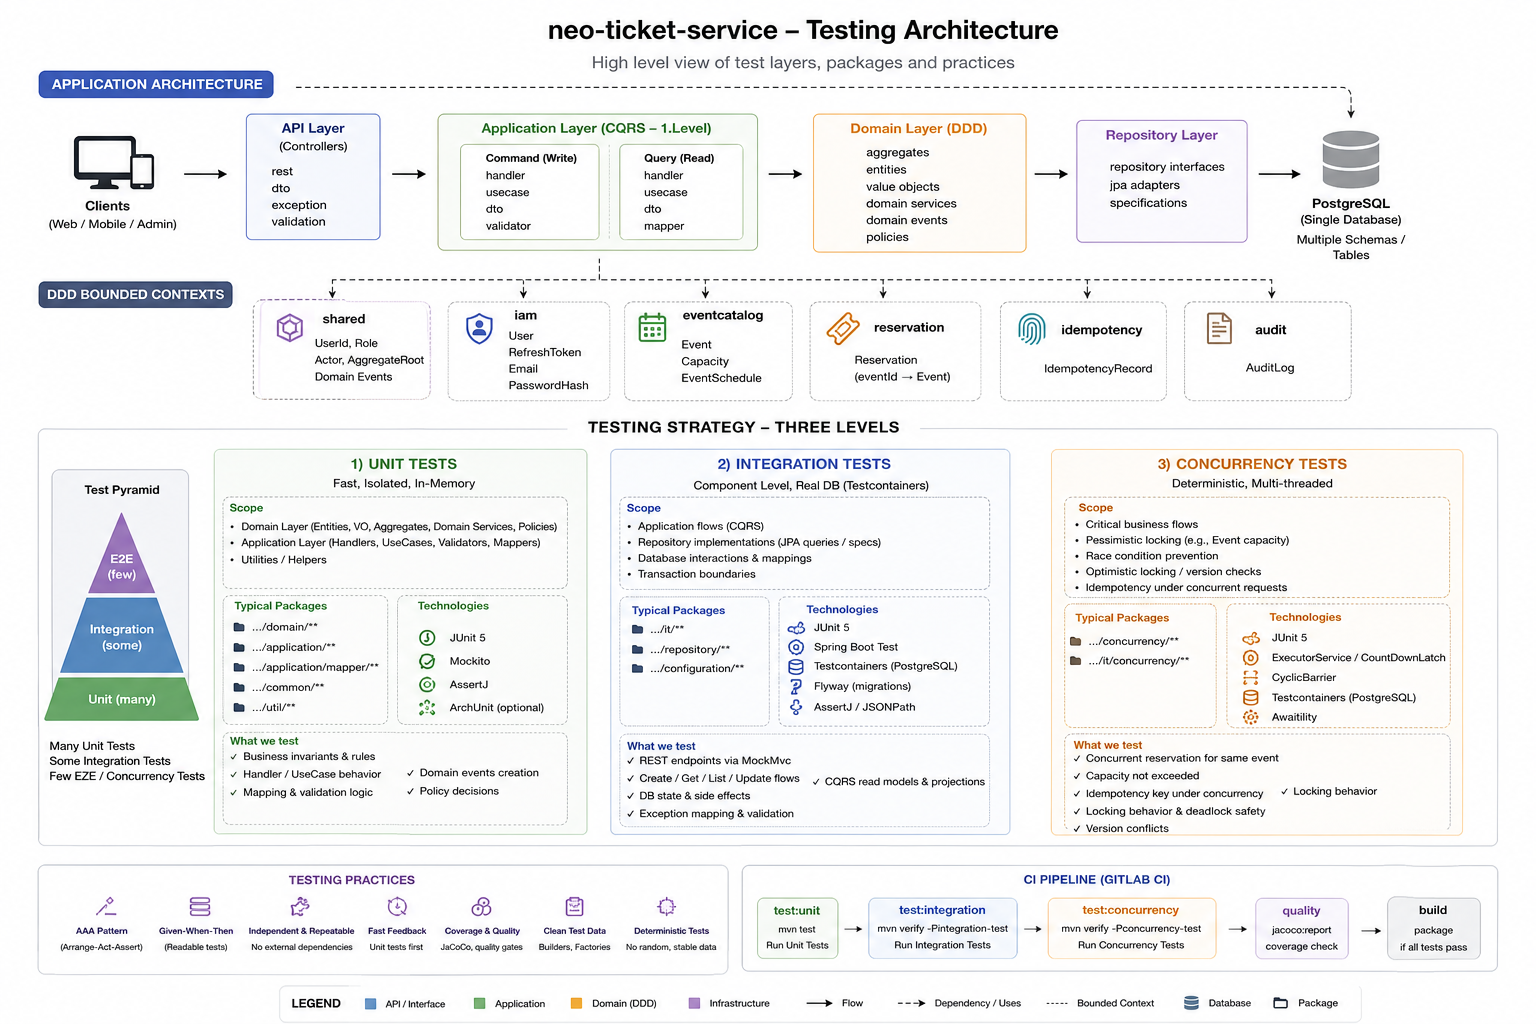
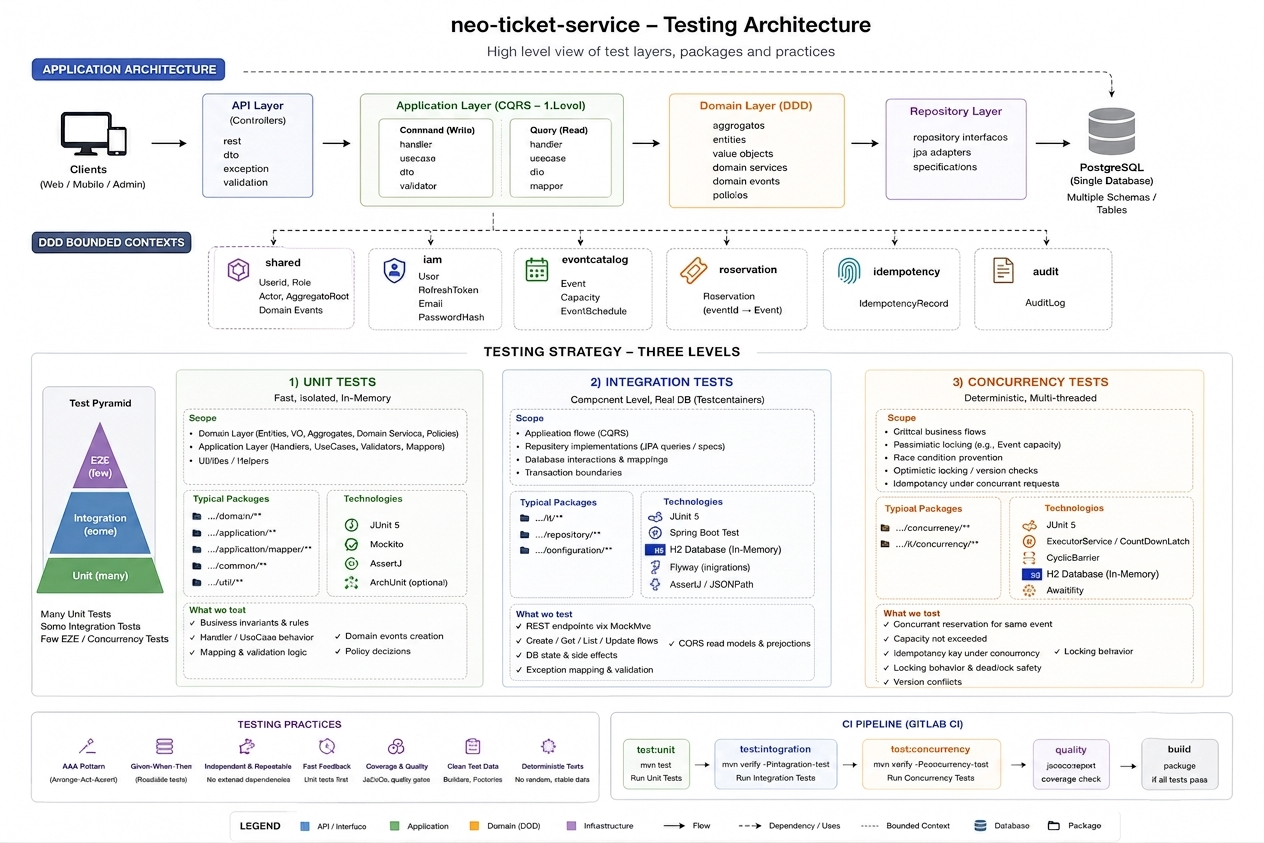
readme.md modified & testing arch png modified

diff --git a/README.md b/README.md
@@ -1,23 +1,265 @@
 # neo-ticket-service
-Secure Ticketing &amp; Reservation API
 
-## Test coverage
+Secure ticketing & reservation API — **Java 25**, **Spring Boot 4**, PostgreSQL.
 
+An organizer publishes events with a fixed seat capacity; customers hold, confirm and cancel
+seats against them. The interesting part of the service is not the CRUD but the guarantees around
+it: capacity must never be oversold under concurrency, a retried request must not book twice, and
+every state change must leave an audit trail.
+
+---
+
+## What it does
+
+| Actor | Can |
+| --- | --- |
+| `CUSTOMER` | Browse published events, hold seats, confirm or cancel their own reservations |
+| `ORGANIZER` | Create, update and publish their own events |
+| `ADMIN` | Act on any event, read operational endpoints |
+
+**Core rules enforced in the domain:**
+
+- Seats can never be oversold — capacity is checked and decremented under a database lock.
+- A reservation holds at most **10** seats and belongs to exactly one event and one user.
+- An event's schedule cannot change after publication; capacity may only grow.
+- Only the owner (or an admin) may modify an event or a reservation.
+- A retried `POST` carrying the same `Idempotency-Key` returns the original result instead of
+  booking again.
+
+---
+
+## Architecture
+
+![High level architecture](docs/image/high-level-architucture.png)
+
+Four layers, one direction of dependency — the domain has no knowledge of Spring, HTTP or JPA:
+
+```text
+API  →  Application (CQRS)  →  Domain (DDD)  →  Repository  →  PostgreSQL
 ```
-mvn clean verify
+
+Six **bounded contexts** live in one deployable and share one database, each owning its own
+tables. They are logical boundaries, not microservices:
+
+| Context | Owns | Notes |
+| --- | --- | --- |
+| `shared` | `UserId`, `Role`, `Actor`, `AggregateRoot`, domain events, error model | No external dependencies |
+| `iam` | `User`, `RefreshToken`, `Email`, `PasswordHash` | JWT issuing, refresh-token rotation |
+| `eventcatalog` | `Event`, `Capacity`, `EventSchedule` | Owns the seat count |
+| `reservation` | `Reservation` | References `eventcatalog` by `EventId` only |
+| `idempotency` | `IdempotencyRecord` | Cross-cutting, supports write endpoints |
+| `audit` | `AuditLog` | Cross-cutting, fed by domain events |
+
+Contexts reference each other **by ID only** — no cross-context object graphs, no shared
+aggregates.
+
+### CQRS — level 1
+
+Commands and queries are separated at the application layer only. Same aggregate, same
+repository, same database — no event sourcing, no separate read store.
+
+```text
+Command → Command Handler → Domain → Repository
+Query   → Query Handler   → Repository → Read DTO
 ```
 
-runs the full suite (unit + integration) and enforces a JaCoCo gate (line ≥ 80%, branch ≥ 70%,
-see `pom.xml`). The build fails if coverage drops below these thresholds.
+Rationale and rejected alternatives: [ADR 0001](docs/adr/ADR_0001_%20Using_DDD_and_Lightweight_CQRS.md).
 
-| Suite            | Tests | Line   | Branch | Instruction | Method |
-|-------------------|:-----:|-------:|-------:|------------:|-------:|
-| Unit tests only    | 256   | 86.82% | 66.33% | 86.28%      | 83.47% |
-| Full suite (+ IT)  | 270   | 89.19% | 71.72% | 88.82%      | 85.06% |
+---
 
-After running `mvn clean verify`, open the HTML report for a line-by-line, package-by-package
-breakdown:
+## How a request flows
 
+![Create reservation sequence](docs/image/sequence-diagram.png)
+
+Holding a seat is the flow where all the guarantees meet:
+
+1. **Idempotency check** — the `Idempotency-Key` is looked up *before* the business transaction.
+   A hit replays the stored response; a miss claims the key via a unique constraint on
+   `(idempotency_key, endpoint, user_id)`, so a concurrent duplicate loses the race instead of
+   double-booking. ([ADR 0003](docs/adr/ADR_0003_Idempotent_Reservations_via_Claim_Row.md))
+2. **Pessimistic lock** — the event row is read `FOR UPDATE`, so two requests cannot both see the
+   same free capacity. Lower-contention updates rely on optimistic `@Version` instead.
+   ([ADR 0002](docs/adr/ADR_0002_Using_Optimistic_and_Pessimistic_Locking.md))
+3. **Domain decides** — the `Event` aggregate checks the rules and reserves the seats; the
+   `Reservation` aggregate is created and raises `ReservationCreated`.
+4. **Audit** — the domain event is consumed and written to `audit_logs` in the same transaction.
+   ([ADR 0006](docs/adr/ADR_0006_Audit_Logging_via_Domain_Events.md))
+5. **Response recorded** — the serialized response is stored against the idempotency key so a
+   retry can replay it.
+
+Errors never leak internals: every failure becomes an RFC 7807 `application/problem+json` body
+carrying a stable machine-readable `errorCode` and the `requestId`.
+([ADR 0004](docs/adr/ADR_0004_HTTPStatus_and_Application_Error_Codes.md),
+[ADR 0005](docs/adr/ADR_0005_%20Do_Not_Expose_Internal_Errors_to_Clients.md))
+
+---
+
+## DDD & design patterns — in brief
+
+| Pattern | Where |
+| --- | --- |
+| Aggregate Root | `Event`, `Reservation`, `User` — the only entry points for state change |
+| Value Object | `Email`, `PasswordHash`, `Capacity`, `EventSchedule`, `UserId`, `Actor` — immutable, self-validating |
+| Domain Event | `ReservationCreated`, `EventPublished`, … raised by aggregates, drained on save |
+| Repository (Port/Adapter) | Domain declares the interface, `infrastructure/persistence` provides the JPA adapter |
+| Command / Query separation | Separate handlers per use case in the application layer |
+| Specification | `JpaSpecificationExecutor` for composable event search filters |
+| Anti-Corruption via IDs | `Reservation` holds an `EventId`, never an `Event` |
+| Invariant guard | `Invariants.require*` — one place for domain precondition failures |
+| Optimistic + Pessimistic locking | `@Version` where contention is low, `FOR UPDATE` where it is not |
+| Idempotency claim row | Unique constraint as the concurrency boundary |
+
+---
+
+## API
+
+| Method | Path | Access |
+| --- | --- | --- |
+| `POST` | `/api/auth/register` | public |
+| `POST` | `/api/auth/login` | public |
+| `POST` | `/api/auth/refresh` | public |
+| `GET` | `/api/events/public` | public |
+| `POST` | `/api/events` | `ORGANIZER` |
+| `PUT` | `/api/events/{id}` | owner / `ADMIN` |
+| `POST` | `/api/events/{id}/publish` | owner / `ADMIN` |
+| `GET` | `/api/events` · `/api/events/{id}` | authenticated |
+| `POST` | `/api/events/{eventId}/reservations` | `CUSTOMER` — **requires `Idempotency-Key`** |
+| `POST` | `/api/reservations/{id}/confirm` · `/cancel` | holder / `ADMIN` |
+| `GET` | `/api/reservations/{id}` | holder / `ADMIN` |
+
+Stateless JWT (HS256), access token 15 min, refresh token 7 days with rotation and
+replay detection. Interactive docs at `/swagger-ui.html`, spec at `/v3/api-docs`.
+
+---
+
+## Running it
+
+```bash
+mvn spring-boot:run          # dev profile, in-memory H2, seeds 3 demo accounts
 ```
-open target/site/jacoco/index.html
+
+Demo accounts (dev only): `admin@neo.io`, `organizer@neo.io`, `customer@neo.io` — password
+`neo-dev-password`.
+
+```bash
+docker build -t neo-ticket-service .
+docker run -p 8080:8080 -e SPRING_PROFILES_ACTIVE=postgres \
+  -e NEO_DB_URL=... -e NEO_DB_USER=... -e NEO_DB_PASSWORD=... -e NEO_JWT_SECRET=... \
+  neo-ticket-service
 ```
+
+| Profile | Database | Seed data |
+| --- | --- | --- |
+| `dev` (default) | H2 in-memory | yes |
+| `test` | H2 in-memory, fresh per context | no |
+| `postgres` | PostgreSQL via env vars | no |
+
+Flyway owns the schema (`src/main/resources/db/migration`); Hibernate runs with
+`ddl-auto: validate` and only checks the mapping against it.
+
+---
+
+## Testing strategy
+
+![Testing architecture](docs/image/testing-architecture.png)
+
+Three levels, split by **behaviour rather than class name**. Every integration-style test is
+annotated with the project's own `@IntegrationTest`, which carries a JUnit 5 `@Tag("integration")`
+— so a new test is classified automatically and CI never needs editing.
+
+| Level | What it covers | Boots Spring? |
+| --- | --- | --- |
+| **Unit** | Aggregates, value objects and invariants across every context, plus IAM's command handlers against in-memory fakes — JUnit 5 + Mockito + AssertJ | no |
+| **Integration** | Full HTTP flow over a random port: security, validation, error mapping, persistence, and the remaining command/query handlers (`reservation`, `eventcatalog`, `idempotency`) | yes |
+| **Concurrency** | Overbooking and idempotency under parallel load (e.g. 16 simultaneous requests with one key) | yes |
+
+The domain layer (aggregates, value objects) is unit-tested everywhere. Handler-level unit tests
+with fakes exist only for `iam`; the other contexts' application/API/infrastructure layers are
+currently exercised only through the integration suite — see the coverage split below.
+
+```bash
+mvn test -DexcludedGroups=integration   # unit only — fast feedback
+mvn test -Dgroups=integration           # integration + concurrency
+mvn clean verify                        # everything + JaCoCo coverage gate
+```
+
+Integration and concurrency tests run against **in-memory H2** with the real Flyway migrations
+applied, so no external service is needed in CI.
+
+### Coverage
+
+`mvn clean verify` enforces a JaCoCo gate (line ≥ 80%, branch ≥ 70%) against the **full suite**;
+the build fails below it.
+
+| Suite | Tests | Line | Branch |
+| --- | :-: | --: | --: |
+| Unit only | 232 | 48.19% | 50.17% |
+| Full suite | 270 | 89.19% | 71.72% |
+
+The gap is real, not a measurement artifact: the domain layer is unit-tested everywhere, but
+`reservation`, `eventcatalog` and `idempotency` currently have no handler-level unit tests with
+fakes (unlike `iam`) — their application/API/infrastructure code is only exercised by the
+integration suite. Unit tests alone would not clear the coverage gate; it is met by design through
+the combination of both levels.
+
+```bash
+open target/site/jacoco/index.html      # line-by-line HTML report
+```
+
+---
+
+## Build & deploy
+
+`.gitlab-ci.yml` — four stages:
+
+```text
+build  →  unit-test  →  integration-test  →  deploy
+```
+
+Kubernetes manifests under `.deploy/`, Kustomize base + overlays:
+
+```text
+.deploy/
+├── base/                 Deployment, Service, ConfigMap, Secret, ServiceAccount
+└── overlays/
+    ├── stage/            1 replica, debug logging
+    └── production/       HPA, PodDisruptionBudget, pod anti-affinity
+```
+
+```bash
+kubectl apply -k .deploy/overlays/stage
+```
+
+The container runs as a non-root user with a read-only root filesystem. Liveness and readiness
+probes hit `/actuator/health/liveness` and `/actuator/health/readiness`; Prometheus metrics are
+exposed at `/actuator/prometheus` and restricted to `ADMIN`.
+([ADR 0007](docs/adr/ADR_0007_Application_Monitoring_and_Health_Checks.md))
+
+---
+
+## Documentation
+
+**Decisions taken** — [`docs/adr/`](docs/adr)
+
+1. [Using DDD and Lightweight CQRS](docs/adr/ADR_0001_%20Using_DDD_and_Lightweight_CQRS.md)
+2. [Optimistic and Pessimistic Locking](docs/adr/ADR_0002_Using_Optimistic_and_Pessimistic_Locking.md)
+3. [Idempotent Reservations via a Claim Row](docs/adr/ADR_0003_Idempotent_Reservations_via_Claim_Row.md)
+4. [HTTP Status and Application Error Codes](docs/adr/ADR_0004_HTTPStatus_and_Application_Error_Codes.md)
+5. [Do Not Expose Internal Errors to Clients](docs/adr/ADR_0005_%20Do_Not_Expose_Internal_Errors_to_Clients.md)
+6. [Audit Logging via Domain Events](docs/adr/ADR_0006_Audit_Logging_via_Domain_Events.md)
+7. [Application Monitoring and Health Checks](docs/adr/ADR_0007_Application_Monitoring_and_Health_Checks.md)
+
+**Open questions** — [`docs/rfc/`](docs/rfc)
+
+1. [Reliable Domain Events](docs/rfc/RFC_0001_%20Reliable_Domain_Events.md) — when does an outbox become necessary?
+2. [Idempotency in Distributed Deployment](docs/rfc/RFC_0002_Idempotency_in_Distributed_Deployment.md)
+3. [Rate Limiting Strategy](docs/rfc/RFC_0003_%20Rate_Limiting_Strategy.md) — instance-local vs. global limits
+4. [Pending Reservation Expiry](docs/rfc/RFC_0004_Pending_Reservation_Expiry.md) — abandoned holds never release their seats
+
+---
+
+## Deliberately out of scope
+
+No Redis, no Kafka, no separate read store, no event sourcing, and no microservice split. Each of
+these is recorded as a rejected alternative in the ADRs, or as an open RFC with the trigger that
+would justify it.
